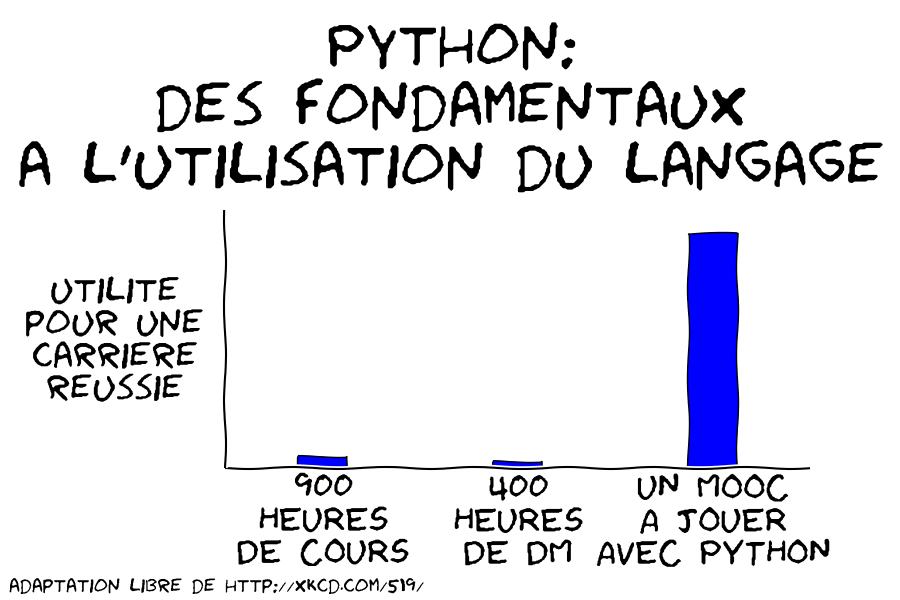
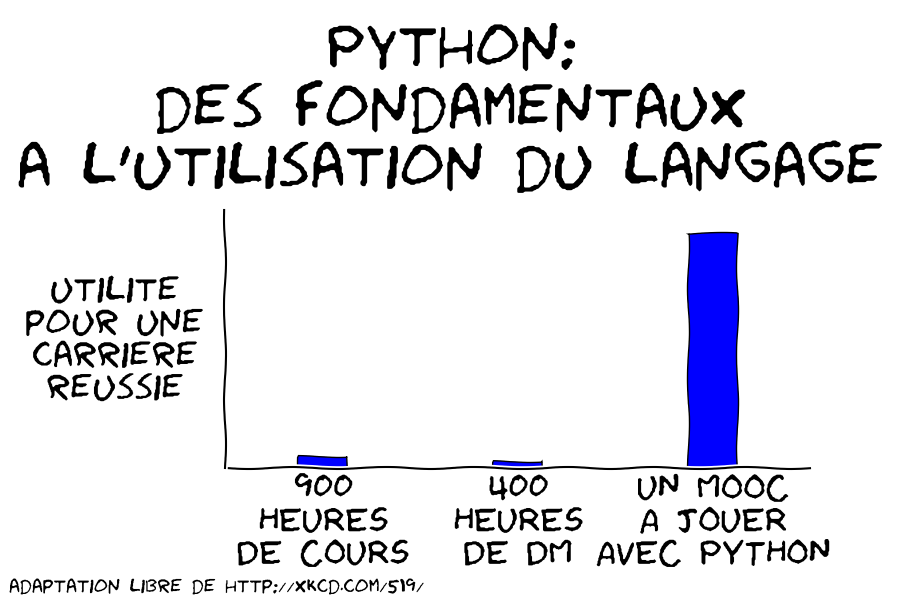
code should be fine notebook to finish with output samples also the notebook shows how to . display a simple plot (sinus) using numpy . produce the drawing for this mooc

diff --git a/modules/xkcd.py b/modules/xkcd.py
@@ -1,0 +1,67 @@
+#!/usr/bin/env python
+
+# re-writing a free adaptation of http://xkcd.com/519/
+
+import matplotlib
+# this is what I need to do on my mac
+# but it is not needed within a notebook
+#matplotlib.use('TkAgg')
+
+from matplotlib import pyplot as plot
+
+# the magical trick to get friendly pictures
+# that remind of the xkcd style
+plot.xkcd()
+
+# create figure
+my_dpi=80
+fig = plot.figure(dpi=my_dpi,figsize=(9,6))
+
+# we need more space for the labels and all
+fig.subplots_adjust(left=0.25,bottom=0.22,top=0.65)
+
+# do not use title, we draw our own texts
+fig.text(0.01,0.01,"adaptation libre de http://xkcd.com/519/",
+         fontsize=14,ha='left',va='bottom')
+
+# another text
+fig.text(0.5,0.82,
+"""Python:
+des fondamentaux
+a l'utilisation du langage""",
+         fontsize=45, ha='center',va='center')
+
+# a subplot
+ax = fig.add_subplot(1, 1, 1)
+ax.spines['right'].set_color('none')
+ax.spines['top'].set_color('none')
+
+# set scales
+ax.set_xlim([-0.5, 2.5])
+ax.set_ylim([0, 110])
+# set values
+ax.bar([i-0.125 for i in range(3)], [5, 3, 100], 0.25)
+
+# draw labels for x and y
+ax.xaxis.set_ticks_position('bottom')
+ax.tick_params(size=0)
+ax.set_xticks([0, 1, 2])
+ax.set_xticklabels(["900\nHEURES\nDE COURS", 
+                    "400\nHEURES\nDE DM", 
+                    "UN MOOC\nA JOUER\nAVEC PYTHON"])
+for tick in ax.xaxis.get_major_ticks():
+    tick.label.set_fontsize(26) 
+
+plot.yticks([])
+ax.set_ylabel(
+"""utilite
+pour une
+carriere
+reussie""",
+              rotation='horizontal',
+              labelpad=80,
+              va='center',
+              fontsize=26)
+
+# show it
+plot.show()
